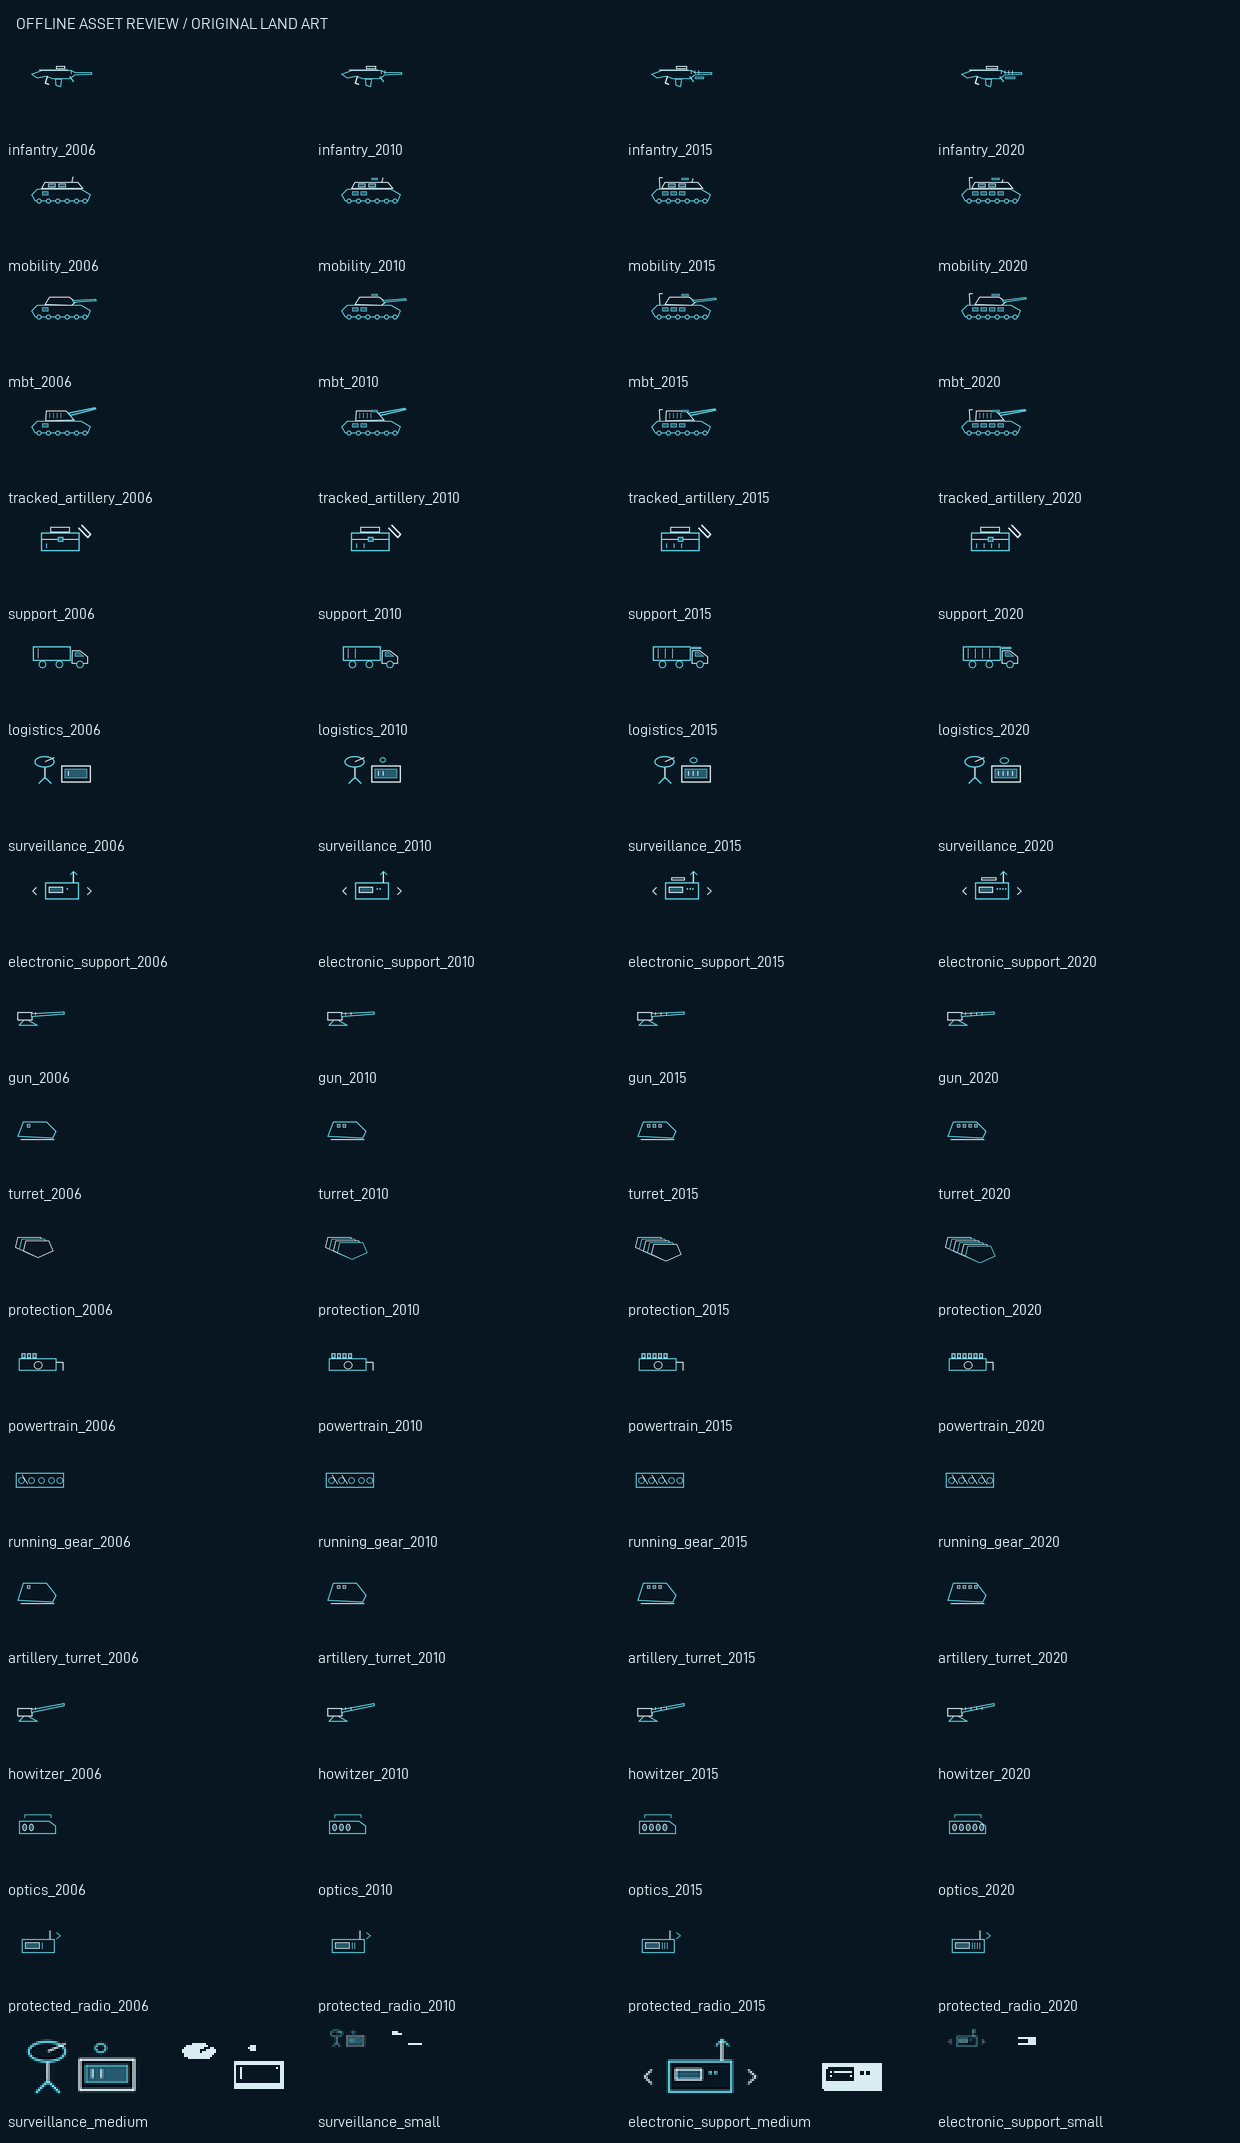
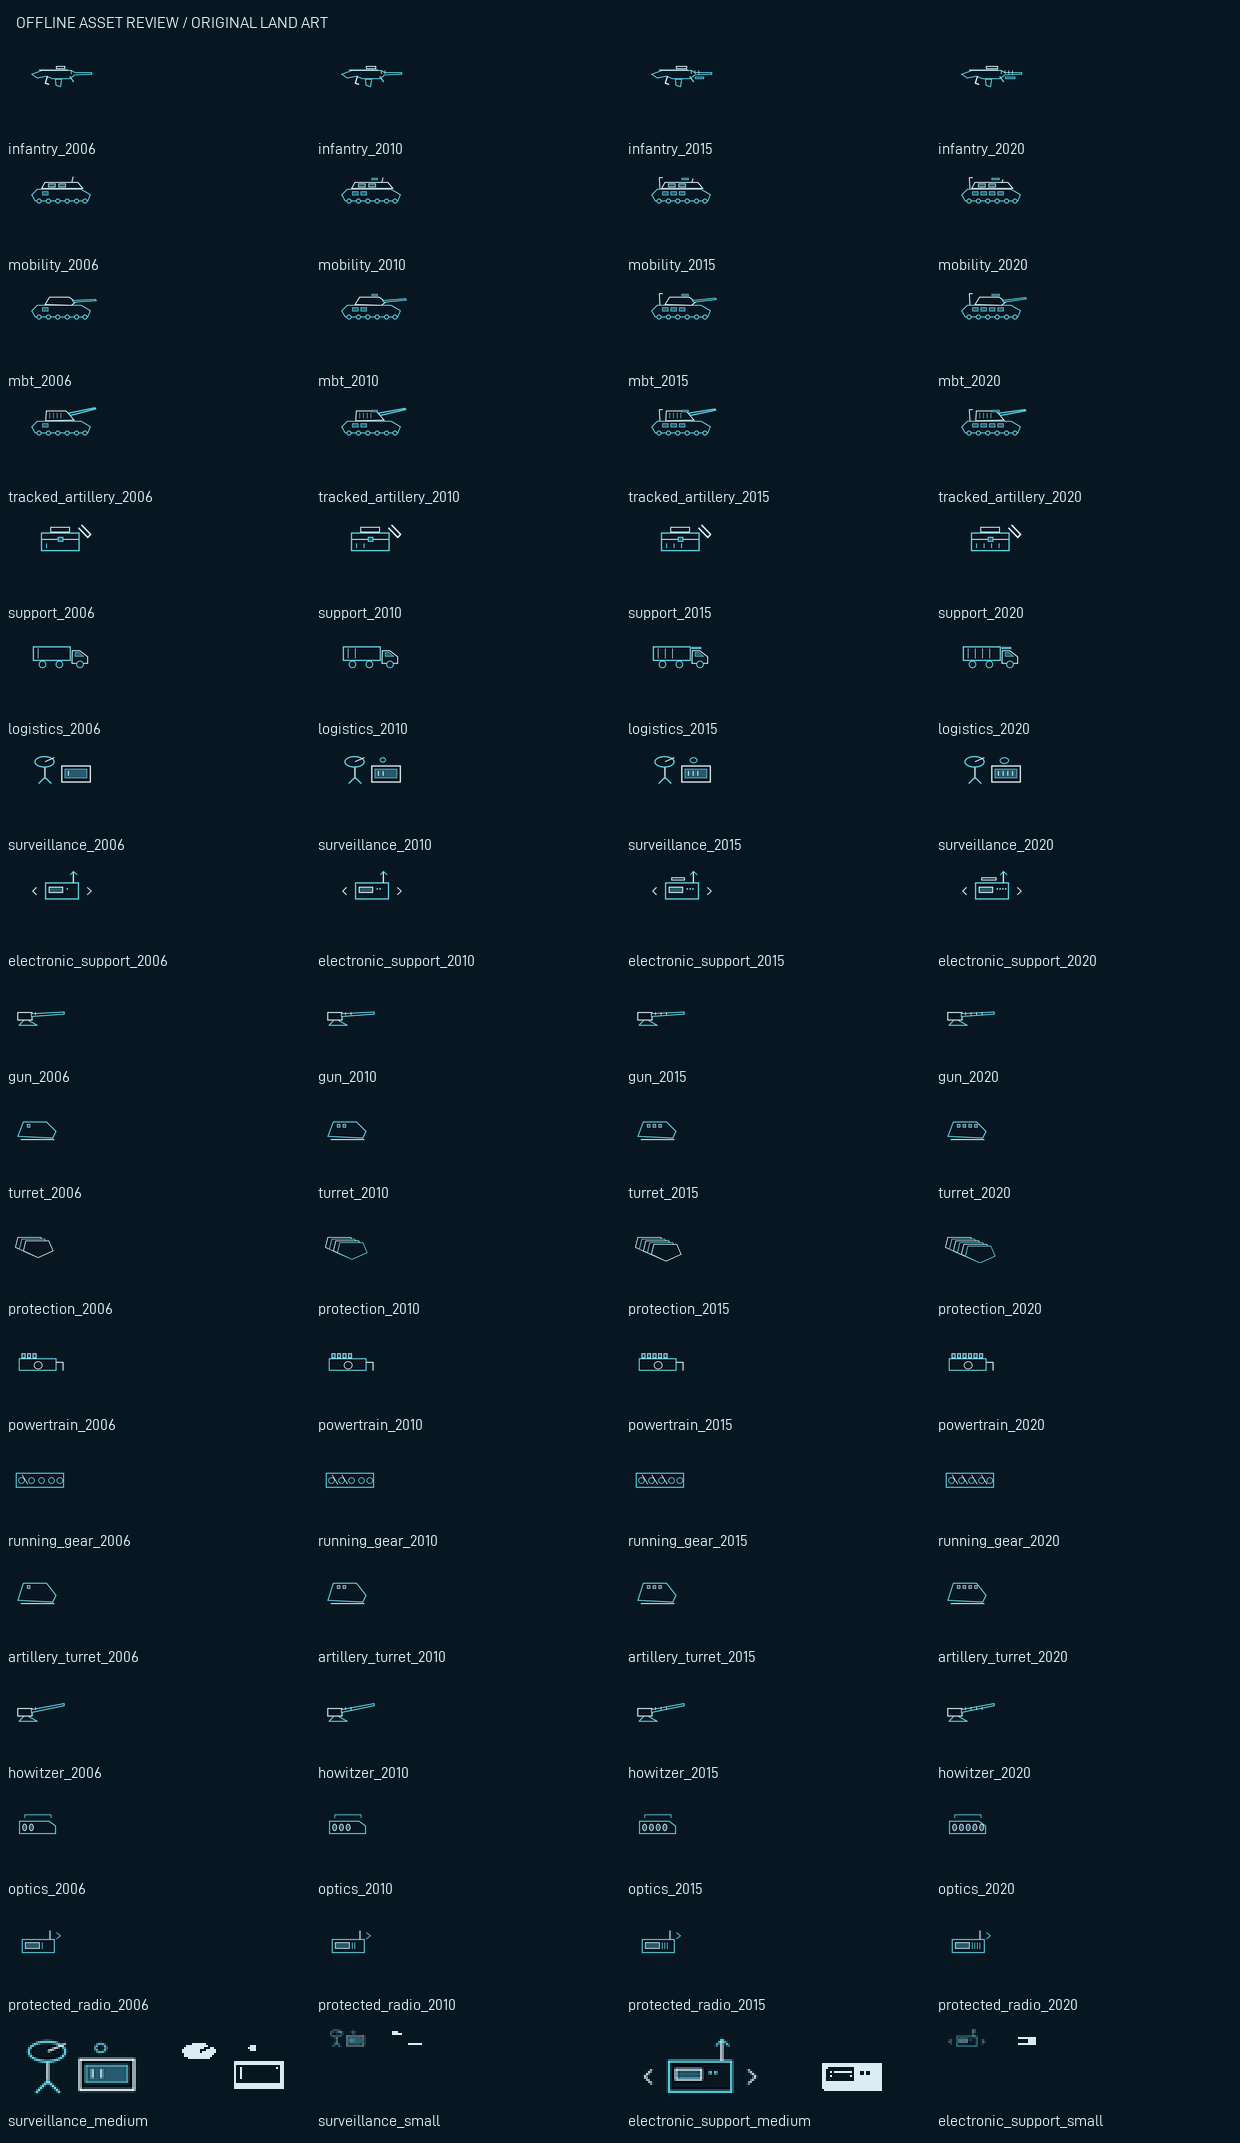
Render land review labels with portable shipped glyphs

diff --git a/tools/land_program/build_art.py b/tools/land_program/build_art.py
@@ -12,7 +12,7 @@ from pathlib import Path
 import sys
 
 import PIL
-from PIL import Image,ImageDraw,ImageFont
+from PIL import Image,ImageDraw
 from land_content import FAMILIES,YEARS,MODULES,module_id,model_id,chassis_id
 
 HERE=Path(__file__).resolve().parent;ROOT=HERE.parents[1];MOD=ROOT/'mod/2985041246'
@@ -234,29 +234,31 @@ def generate():
 
 
 def gallery():
-    font=ImageFont.truetype(str(ROOT/'tools/frontend_typography/source/DINish-Regular.ttf'),16)
+    # Use the delivered raster glyphs: FreeType rasterization varies by OS.
+    from render_review import Atlas
+    font=Atlas('ACBriefing16')
     rows=[]
     for row in ASSETS:
         if row['role'] in ('original research composition','original designer module composition','original support counter selection strip'):rows.append(row)
     cols=4;w=310;h=116
     canvas=Image.new('RGBA',(cols*w,((len(rows)+cols-1)//cols)*h+55),NAVY);d=ImageDraw.Draw(canvas)
-    d.text((16,12),'OFFLINE ASSET REVIEW / ORIGINAL LAND ART',font=font,fill=WHITE)
+    font.draw(canvas,'OFFLINE ASSET REVIEW / ORIGINAL LAND ART',16,12,cols*w-32,24)
     for index,row in enumerate(rows):
         x=(index%cols)*w;y=(index//cols)*h+50;im=Image.open(io.BytesIO(OUTPUT[MOD/row['file']])).convert('RGBA')
         if 'counter' in row['role']:im=im.resize((im.width*2,im.height*2),Image.Resampling.NEAREST)
         canvas.alpha_composite(im,(x+8,y+5));label=Path(row['file']).stem
-        d.text((x+8,y+88),label,font=font,fill=WHITE)
+        font.draw(canvas,label,x+8,y+88,w-16,24)
     put('docs/evidence/land-program/asset-gallery.png',encode(canvas,'PNG'))
     equipment=[row for row in ASSETS if row['role']=='original equipment composition']
     large=Image.new('RGBA',(4*310,8*146+55),NAVY);draw=ImageDraw.Draw(large)
-    draw.text((16,12),'OFFLINE EQUIPMENT COMPOSITIONS / ORIGINAL LAND ART',font=font,fill=WHITE)
+    font.draw(large,'OFFLINE EQUIPMENT COMPOSITIONS / ORIGINAL LAND ART',16,12,large.width-32,24)
     for index,row in enumerate(equipment):
         x=(index%4)*310;y=(index//4)*146+50
         large.alpha_composite(Image.open(io.BytesIO(OUTPUT[MOD/row['file']])).convert('RGBA'),(x+8,y+5))
-        draw.text((x+8,y+112),Path(row['file']).stem,font=font,fill=WHITE)
+        font.draw(large,Path(row['file']).stem,x+8,y+112,294,24)
     put('docs/evidence/land-program/equipment-gallery.png',encode(large,'PNG'))
     body='<html><meta charset="utf-8"><title>Land artwork offline review</title><style>body{background:#081621;color:#daedf2;font:16px sans-serif}img{max-width:100%}</style><h1>Offline original-art review</h1><p>Technical artwork only. This is not a native research-screen screenshot or engine acceptance.</p><img src="asset-gallery.png" alt="All research, module and counter compositions"><ul>'
-    body+='<img src="equipment-gallery.png" alt="All32 complete-equipment compositions">'
+    body+=f'<img src="equipment-gallery.png" alt="All{len(equipment)} complete-equipment compositions">'
     for row in ASSETS:body+='<li>'+html.escape(row['file'])+f' — {row["width"]}×{row["height"]}, {row["frames"]}frame(s)</li>'
     put('docs/evidence/land-program/asset-gallery.html',body+'</ul></html>')
 
@@ -267,6 +269,11 @@ if __name__=='__main__':
     for path,data in outputs.items():
         if args.check:
             existing=path.read_bytes() if path.exists() else b''
+            # Review PNGs preserve exact pixels, not platform zlib encoding.
+            # Delivered DDS, SVG and binding/manifest bytes still compare below.
+            if path.suffix.lower()=='.png' and existing:
+                with Image.open(io.BytesIO(existing)) as old,Image.open(io.BytesIO(data)) as new:
+                    if old.size==new.size and old.convert('RGBA').tobytes()==new.convert('RGBA').tobytes():continue
             if path.suffix.lower() in ('.json','.svg','.html','.gfx'):existing=existing.replace(b'\r\n',b'\n')
             if existing!=data:raise SystemExit('Stale land art: '+str(path.relative_to(ROOT)))
         else:path.parent.mkdir(parents=True,exist_ok=True);path.write_bytes(data)

diff --git a/tools/land_program/README.md b/tools/land_program/README.md
@@ -33,6 +33,7 @@ The source files have distinct roles:
 - `build.py` generates technology, equipment, support units, AI and English localization.
 - `build_ui.py` adds the real research folder, tab and templates. Its captured pre-change GUI remains in `source/research_base.gui`; normalization removes only the declared additions and two description-scrollbar properties before comparing the whole old AST.
 - `build_art.py` is the editable geometric master. It also exports 68 editable SVGs and packages 106 RGBA8 DDS textures with 158 sprite bindings. `assets.json` records dimensions, frames, alpha, hashes and provenance. Shared physical default legacy/designer variants intentionally share their vehicle art. Research cards use 112×40 icons, equipment 192×96, modules64×64, support counters two frames at76×42 or30×12 per frame, and the tab four89×30 frames. Alpha below4 is removed after Lanczos downsampling to prevent invisible bright-color fringe.
+- Offline gallery labels use the shipped raster font atlas, avoiding operating-system TrueType rasterization. Review PNG checks require identical dimensions and RGBA pixels; delivered DDS and editable/binding sources retain exact-byte checks.
 - `audit.py` captures effective definitions, validates paid physical routes and produces `capabilities.json`. Its arithmetic is a source comparison, not an engine simulation.
 - `render_review.py` reconstructs the shipped new page using actual GUI coordinates, sprites, localization and ACBriefing BMFont glyph advances/kerning. It fails on text or bounds findings. Its deliberately labelled PNG is an offline review artifact.
 - `preserved_sources.json` pins the inherited technical/history payload used by the 61 current starts. A separately reviewed owner changing those sources must be composed explicitly; do not refresh hashes merely to make a test green.

diff --git a/docs/evidence/land-program/integration/ci-portability.md b/docs/evidence/land-program/integration/ci-portability.md
@@ -1,0 +1,28 @@
+# Linux artwork-gallery correction
+
+The first Linux `conventional-land` job on PR #46 failed at review commit
+`4e6fc846f267585799c81873070c96c8f9622e4b` in
+`test_generators_and_visual_artifacts_are_byte_reproducible`:
+
+```
+Stale land art: docs/evidence/land-program/asset-gallery.png
+```
+
+Run: <https://github.com/JasonBreen/project-ulysses-road-to-nemo/actions/runs/41271178065>.
+The preceding 106 delivered DDS comparisons passed. The gallery used
+`ImageFont.truetype`, whose rasterization depends on the platform FreeType
+build. It now composes its captions from the delivered `ACBriefing16` glyph
+atlas, matching the research-page reconstruction. Review PNG consistency checks
+compare exact dimensions and decoded RGBA pixels; DDS, SVG, GFX and manifest
+outputs retain exact-byte checks. Different PNG compression cannot hide a
+different pixel or dimension.
+
+Repackaging changed only the two offline gallery PNGs and the generator-source
+hash in the asset manifest. All delivered mod files remain identical to the
+ten-gate source payload documented in `caption-parent/results.json`. All 22
+focused LAND tests passed again with the read-only installed primary after the
+correction. Exact-head Linux and Windows CI must still be checked after pushing
+the correction; the original failed run remains visible as evidence.
+
+This fixes review-artifact reproducibility. It supplies no native rendering,
+designer, AI, save/reload or release acceptance.
